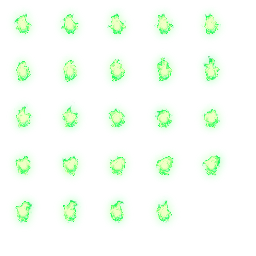
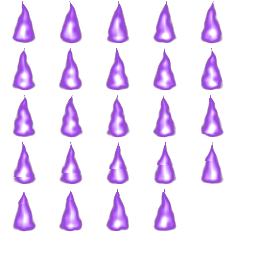
Purple title flames on gold braziers, calmer flicker

diff --git a/site/css/style.css b/site/css/style.css
@@ -179,10 +179,15 @@ th.sort::after { content: " \2195"; color: #77776f; }
 .logo-anim { position: relative; display: inline-block; width: min(380px, 86%); }
 .logo-anim img { display: block; width: 100%; image-rendering: pixelated; }
 .logo-anim .logo-glow { position: absolute; inset: 0; mix-blend-mode: plus-lighter; opacity: 0; pointer-events: none; }
-/* torches on the ornaments beside "ECHOES OF": centred at 16% / 84% across, standing on 53% down */
-.logo-anim .flame { position: absolute; width: 30%; aspect-ratio: 1; top: 53%; transform: translate(-50%, -100%); image-rendering: pixelated; pointer-events: none; }
-.logo-anim .flame.left { left: 16%; }
-.logo-anim .flame.right { left: 84%; transform: translate(-50%, -100%) scaleX(-1); }
+/* purple flames in gold braziers on the gem ornaments beside "ECHOES OF" (same layout as the game's title):
+   gem centres at 43 / 210.5 of the logo's 256px, brazier 28x13 logo px at 1.4x standing on y 133,
+   flame 47 game units (= 27.6% of the logo) rising out of the bowl rim */
+.logo-anim .brazier { position: absolute; width: 15.3%; top: 44.8%; transform: translateX(-50%); image-rendering: pixelated; pointer-events: none; }
+.logo-anim .brazier.left { left: 16.8%; }
+.logo-anim .brazier.right { left: 82.2%; }
+.logo-anim .flame { position: absolute; width: 27.6%; aspect-ratio: 1; top: 49%; transform: translate(-50%, -100%); image-rendering: pixelated; pointer-events: none; }
+.logo-anim .flame.left { left: 16.8%; }
+.logo-anim .flame.right { left: 82.2%; transform: translate(-50%, -100%) scaleX(-1); }
 .callouts { display: grid; grid-template-columns: repeat(auto-fill, minmax(220px, 1fr)); gap: 10px; margin-top: 10px; }
 .callout { padding: 4px; border: 8px solid transparent; border-image: url("../img/ui/hd/slot.svg") 8 fill / 8px stretch; color: var(--text); display: flex; gap: 10px; align-items: center; }
 .callout img { width: 48px; height: 48px; object-fit: contain; flex: none; }

diff --git a/site/js/title-logo.js b/site/js/title-logo.js
@@ -1,10 +1,10 @@
-/* The animated title logo from the game's TitleScene: two torch flames (effects/Fireball, 24 frames at 24fps,
-   the second flipped and half a cycle ahead) on the ornaments either side of "ECHOES OF", and the glow layer
+/* The animated title logo from the game's TitleScene: two purple flames (effects/Fireball, 24 frames at 12fps,
+   the second flipped and half a cycle ahead) in gold braziers on the gem ornaments either side of "ECHOES OF", and the glow layer
    that fades in and out with light blending: brightness = max(0, sin t), restarting every 1.5 pi seconds. */
 (function () {
   "use strict";
   function src(p) { return (window.__IMG && window.__IMG[p]) || p; }
-  var FRAME = 47, COLS = 5, FRAMES = 24, FPS = 24;
+  var FRAME = 47, COLS = 5, FRAMES = 24, FPS = 12;   // calmer flicker, as in the game
   var sheet = new Image(); sheet.src = src("img/ui/fireball.png");
   var running = null;
 

diff --git a/site/js/app.js b/site/js/app.js
@@ -96,6 +96,7 @@
   function pageHome() {
     var n = D.items.length, m = D.mobs.filter(function (x) { return x.kind !== "npc" && x.kind !== "ally"; }).length;
     var h = '<div class="hero-banner"><div class="logo-anim" id="logoAnim">' + img("img/ui/title_logo.png", "logo-img", "Echoes of Yendor") +
+      img("img/ui/title_brazier.png", "brazier left") + img("img/ui/title_brazier.png", "brazier right") +
       '<canvas class="flame left"></canvas><canvas class="flame right"></canvas>' + img("img/ui/title_logo_glow.png", "logo-glow") + "</div></div>";
     h += '<div class="play-row">' + playButton(true) + "</div>";
     h += "<h1>Welcome to the Echoes of Yendor Wiki</h1>";

diff --git a/tools/extract.py b/tools/extract.py
@@ -889,7 +889,8 @@ for f in ["title_logo.png", "eoy_icon.png", "arcs1.png", "arcs2.png", "title_log
 os.makedirs(os.path.join(WIKI, "audio"), exist_ok=True)
 shutil.copy(os.path.join(AST, "music/menu_theme.ogg"), os.path.join(WIKI, "audio/menu_theme.ogg"))
 os.system('ffmpeg -v error -y -i "%s" -codec:a libmp3lame -b:a 112k "%s"' % (os.path.join(WIKI, "audio/menu_theme.ogg"), os.path.join(WIKI, "audio/menu_theme.mp3")))
-shutil.copy(os.path.join(AST, "effects/fireball-short.png"), os.path.join(ui, "fireball.png"))  # title torches
+shutil.copy(os.path.join(AST, "effects/fireball-short.png"), os.path.join(ui, "fireball.png"))  # title flames (purple)
+shutil.copy(os.path.join(AST, "interfaces/title_brazier.png"), os.path.join(ui, "title_brazier.png"))  # their braziers
 # the title-screen background art (ui/TitleBackground.java), animated by site/js/title-bg.js
 for f in ["echoes_bg", "echoes_fog", "echoes_glow"]:
     shutil.copy(os.path.join(AST, "splashes/title/%s.png" % f), os.path.join(ui, f.replace("echoes_", "title_") + ".png"))
